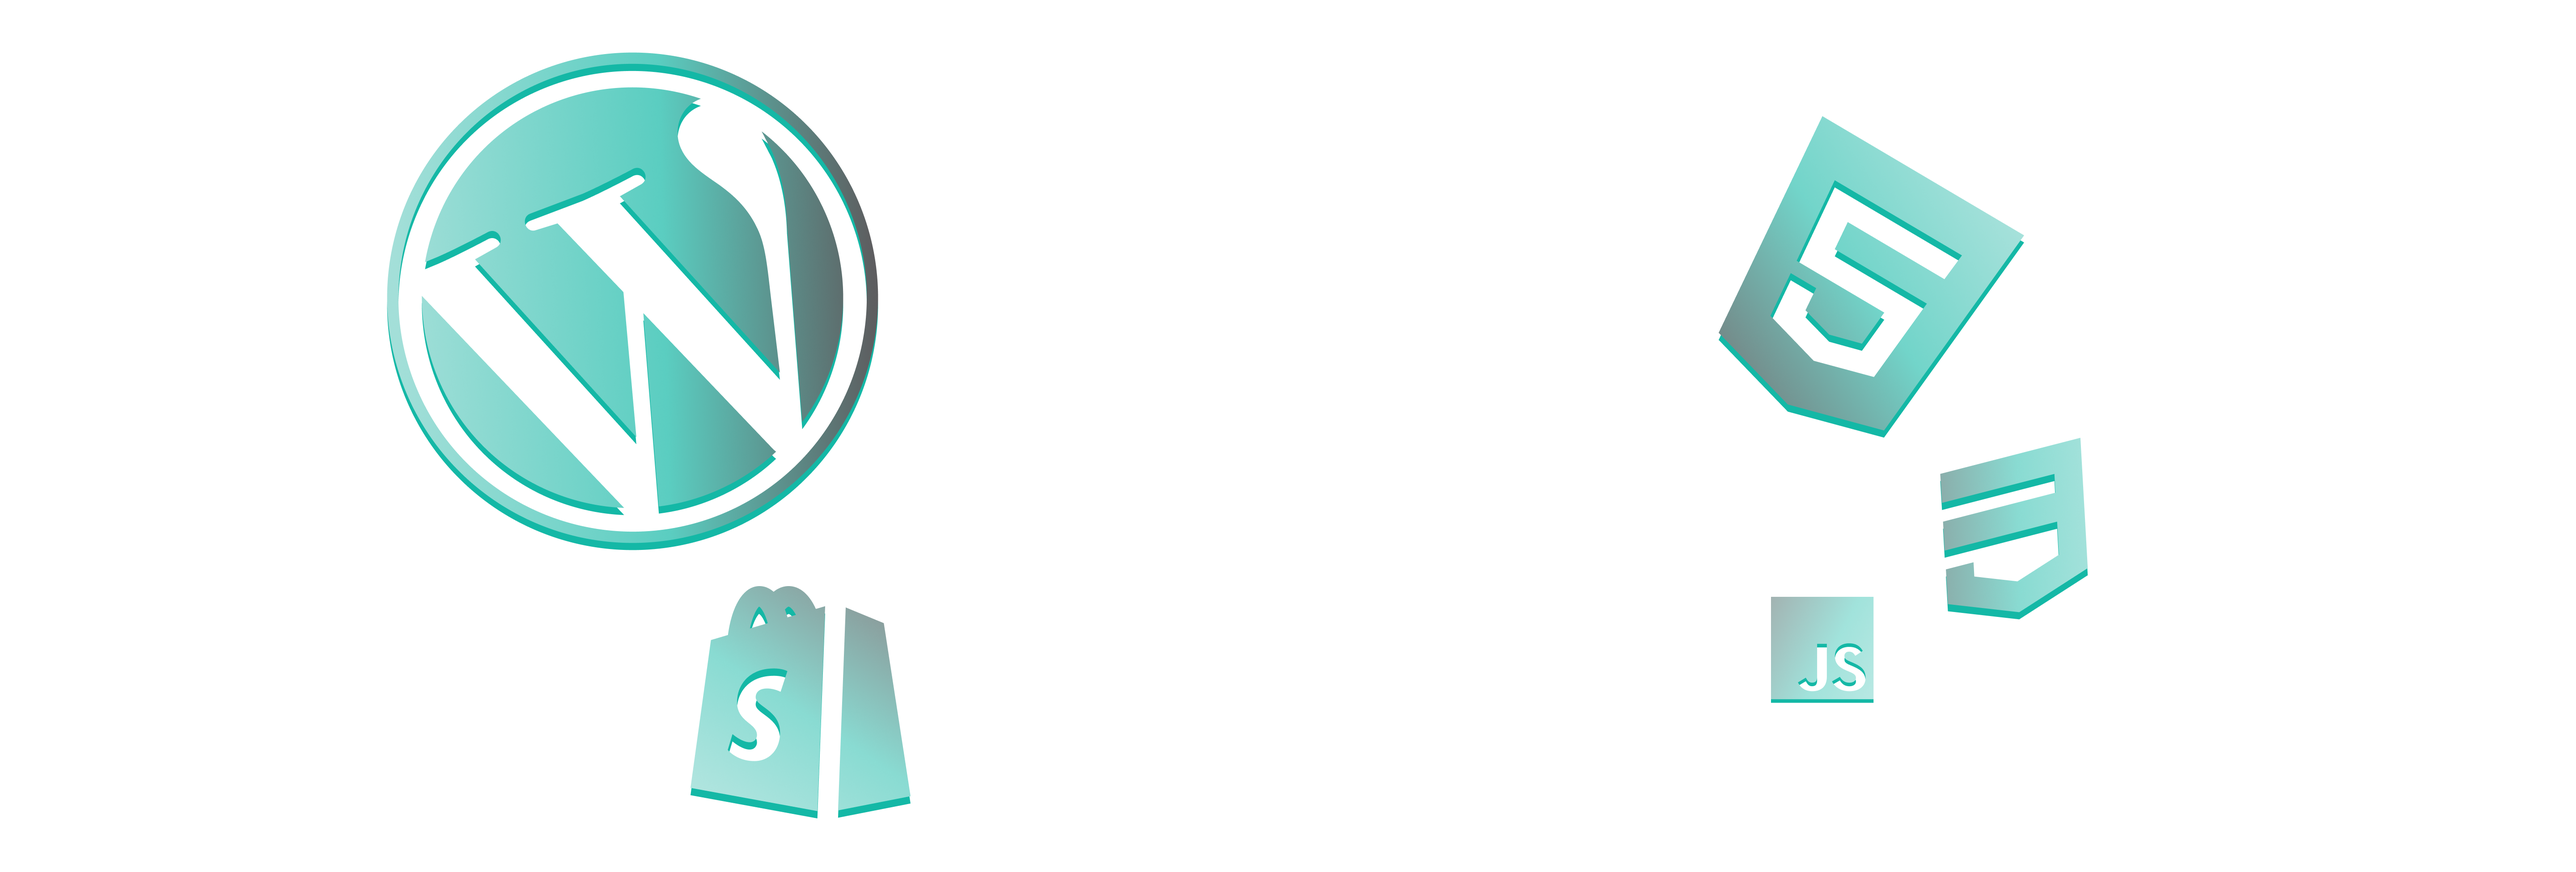
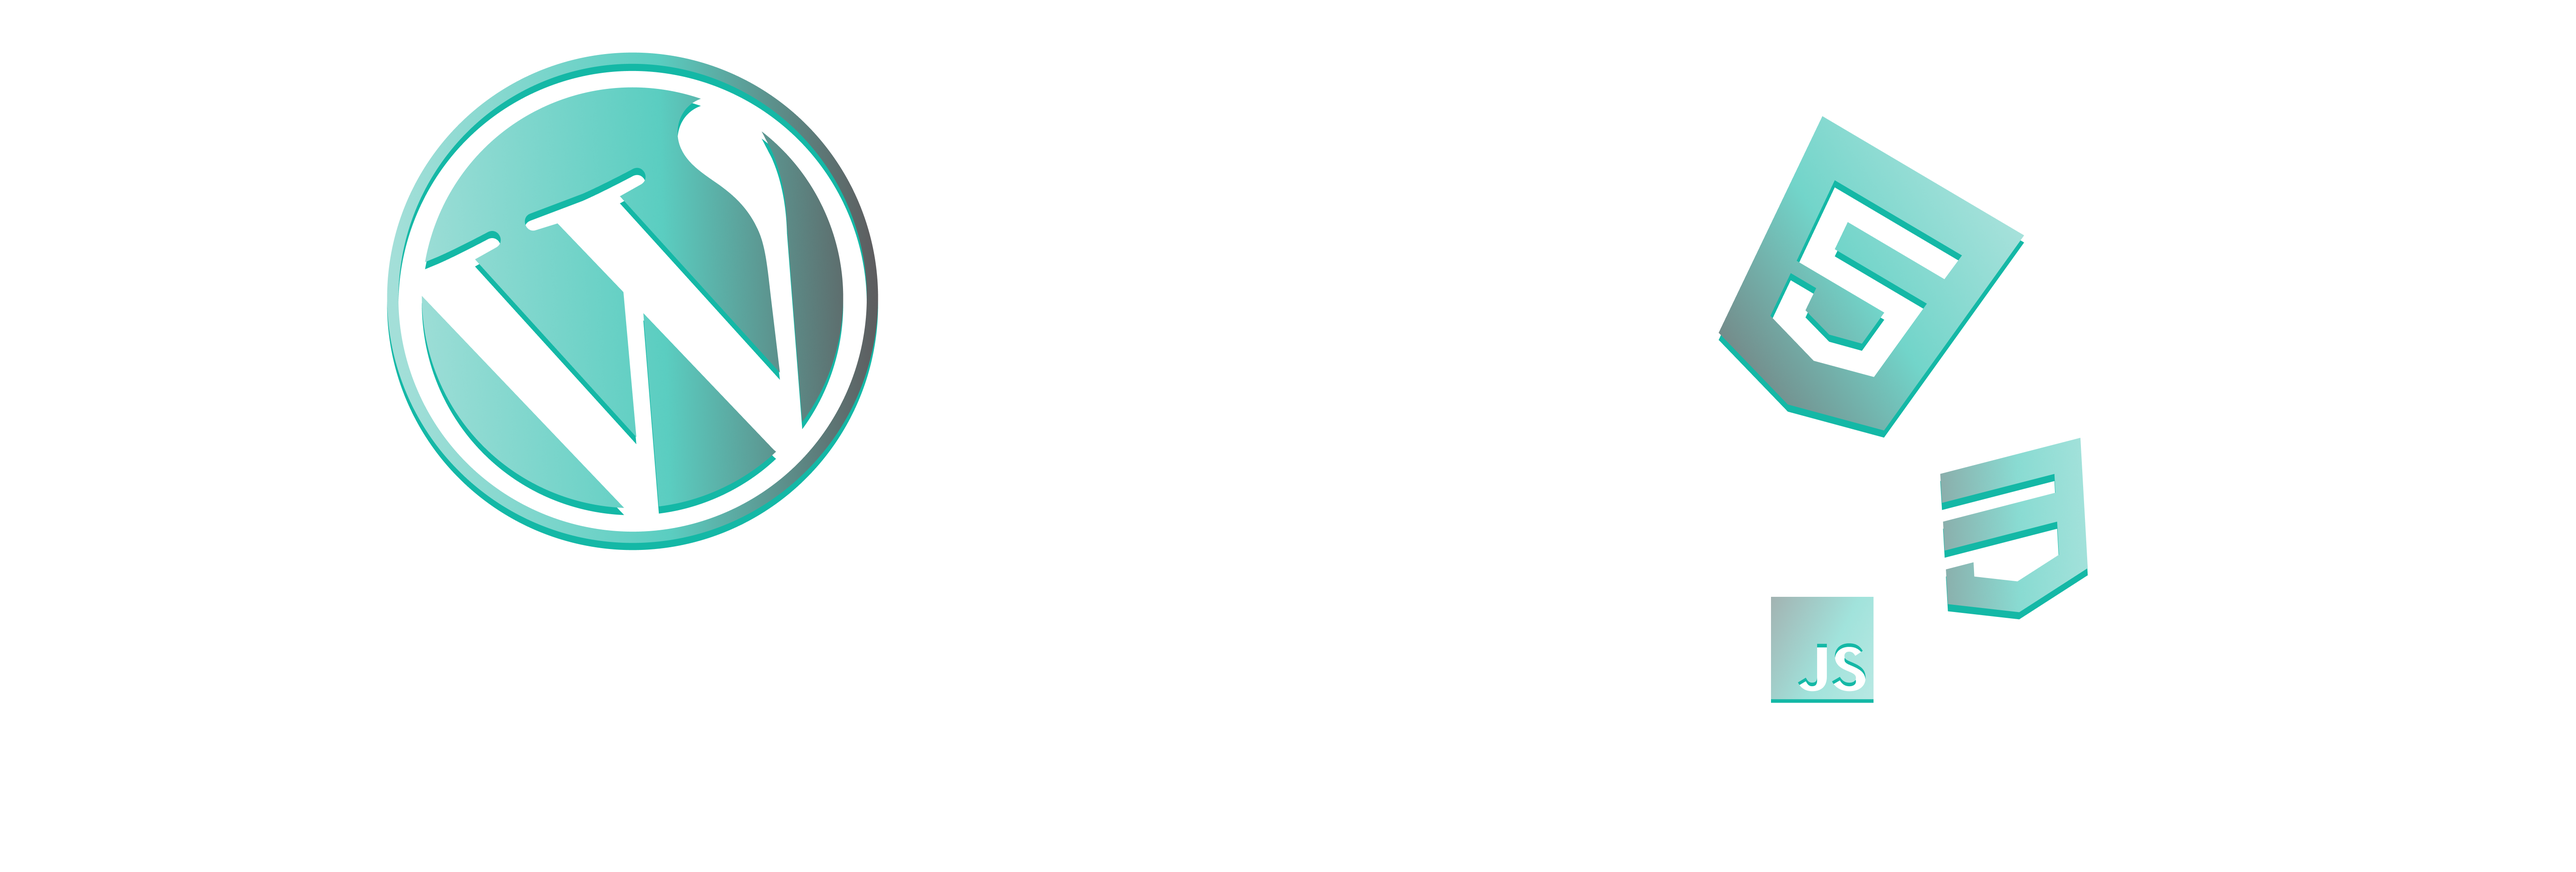
Add files via upload

Changed region(s): [[0.25, 0.6562, 0.375, 0.9375]]

diff --git a/index.html b/index.html
@@ -57,7 +57,7 @@
                 </div>
                 <p id="subtitle" class="text-neutral-100 text-center text-xl font-light opacity-80">Website developer
                 </p>
-                <p class="text-neutral-100 text-center text-xl font-light opacity-80">WordPress, Shopify, HTML, CSS, JS
+                <p class="text-neutral-100 text-center text-xl font-light opacity-80">WordPress, HTML, CSS, JS
                     🚀
                 </p>
             </div>
@@ -141,19 +141,80 @@
 
         <div class="flex flex-col lg:flex-row justify-center items-center">
             <div class="w-full lg:w-[35%] flex flex-col justify-center items-center drop-shadow-main ">
-                <a href="https://slamculture.com/" target="_blank">
-                    <img src="./img/slamculture_logo.png">
+                <a href="https://gpasolutions.co.uk/" target="_blank">
+                    <img src="./img/gpasolutions_logo.png">
                 </a>
-                <p id="slamculture_description" class="text-neutral-100 text-xl font-light opacity-80">Clothing brand
-                    e-shop 👕</p>
+                <p id="gpasolutions_description" class="text-neutral-100 text-xl font-light opacity-80">Gardening
+                    company website 🌱</p>
             </div>
             <div class="w-full lg:w-[35%] flex flex-col justify-center lg:justify-end items-center lg:items-end">
-                <a href="https://slamculture.com/" target="_blank">
-                    <img src="./img/slamculture.png" class="w-full floating-img">
+                <a href="https://gpasolutions.co.uk/" target="_blank">
+                    <img src="./img/gpasolutions.png" class="w-full floating-img">
                 </a>
                 <div class="flex justify-center items-center mr-0 lg:mr-18">
-                    <p class="built_in text-neutral-100 opacity-80 mr-3 mt-[3px]">Built in</p>
-                    <img src="./img/shopify.png">
+                    <p class="built_in text-neutral-100 opacity-80 mr-[-5px] mt-[3px]">Built in</p>
+                    <img src="./img/wordpress.png">
+                </div>
+            </div>
+        </div>
+
+        <div class="flex lg:hidden justify-end items-center">
+            <div class="w-[50%]">
+                <img class="h-48 mt-10" src="img/line_0.png">
+            </div>
+        </div>
+        <div class="hidden lg:flex justify-center items-center">
+            <div>
+                <img class="h-96" src="img/line_2.png">
+            </div>
+        </div>
+
+        <div class="flex flex-col lg:flex-row-reverse justify-center items-center">
+            <div class="w-full lg:w-[35%] flex flex-col justify-center items-center drop-shadow-main ">
+                <a href="https://odborysno.cz/" target="_blank">
+                    <img src="./img/odborysno_logo.png">
+                </a>
+                <p id="odborysno_description" class="text-neutral-100 text-xl font-light opacity-80">Hospital
+                    department
+                    website 🏥</p>
+            </div>
+            <div class="w-full lg:w-[35%] flex flex-col justify-center lg:justify-start items-center lg:items-start">
+                <a href="https://odborysno.cz/" target="_blank">
+                    <img src="./img/odborysno.png" class="w-full floating-img">
+                </a>
+                <div class="flex justify-center items-center ml-0 lg:ml-18">
+                    <p class="built_in text-neutral-100 opacity-80 mr-[-5px] mt-[3px]">Built in</p>
+                    <img src="./img/wordpress.png">
+                </div>
+            </div>
+        </div>
+
+        <div class="flex lg:hidden justify-end items-center">
+            <div class="w-[50%]">
+                <img class="h-48 mt-10" src="img/line_0.png">
+            </div>
+        </div>
+        <div class="hidden lg:flex justify-center items-center">
+            <div>
+                <img class="h-96" src="img/line_3.png">
+            </div>
+        </div>
+
+        <div class="flex flex-col lg:flex-row justify-center items-center">
+            <div class="w-full lg:w-[35%] flex flex-col justify-center items-center drop-shadow-main ">
+                <a href="https://www.hayleyjoneswiresculptures.com/" target="_blank">
+                    <img src="./img/hayleyjones_logo.png">
+                </a>
+                <p id="hayleyjones_description" class="text-neutral-100 text-xl font-light opacity-80">Artist portfolio
+                    website 🎨</p>
+            </div>
+            <div class="w-full lg:w-[35%] flex flex-col justify-center lg:justify-end items-center lg:items-end">
+                <a href="https://www.hayleyjoneswiresculptures.com/" target="_blank">
+                    <img src="./img/hayleyjones.png" class="w-full floating-img">
+                </a>
+                <div class="flex justify-center items-center mr-0 lg:mr-18">
+                    <p class="built_in text-neutral-100 opacity-80 mr-[-5px] mt-[3px]">Built in</p>
+                    <img src="./img/wordpress.png">
                 </div>
             </div>
         </div>
@@ -278,10 +339,13 @@
                 projects_title: "Projects",
                 rqpower_description: "Photovoltaic company website 🔋",
                 tevalipno_description: "Accomodation booking website 🏠",
-                slamculture_description: "Clothing brand e-shop 👕",
+                gpasolutions_description: "Gardening company website 🌱",
+                odborysno_description: "Hospital department website 🏥",
+                hayleyjones_description: "Artist portfolio website 🎨",
                 contact_title: "Contact",
                 contact_description: "Interested in working with me? Feel free to reach out 📝",
-                btn: "Send"
+                btn: "Send",
+                thankYouMessage: "✅ Thanks for your message! I'll get back to you soon."
             },
             cz: {
                 rightsReserved: "Všechna práva vyhrazena",
@@ -294,12 +358,15 @@
                 link_contact: "Kontakt",
                 subtitle: "Webový vývojář",
                 projects_title: "Projekty",
-                rqpower_description: "Web pro firmu zabývající se fotovoltaikou 🔋",
-                tevalipno_description: "Web s rezervací ubytování 🏠",
-                slamculture_description: "E-shop pro módní značku 👕",
+                rqpower_description: "Web fotovoltaické společnosti 🔋",
+                tevalipno_description: "Web rezervace ubytování 🏠",
+                gpasolutions_description: "Web zahradnické firmy 🌱",
+                odborysno_description: "Web nemocničního oddělení 🏥",
+                hayleyjones_description: "Web portfolia umělce 🎨",
                 contact_title: "Kontakt",
                 contact_description: "Máte zájem o spolupráci? Neváhejte mě kontaktovat 📝",
-                btn: "Odeslat"
+                btn: "Odeslat",
+                thankYouMessage: "✅ Děkuji za Vaši zprávu! Brzy se Vám ozvu."
             }
         };
 
@@ -317,7 +384,9 @@
             document.getElementById("projects_title").textContent = translations[lang].projects_title;
             document.getElementById("rqpower_description").textContent = translations[lang].rqpower_description;
             document.getElementById("tevalipno_description").textContent = translations[lang].tevalipno_description;
-            document.getElementById("slamculture_description").textContent = translations[lang].slamculture_description;
+            document.getElementById("gpasolutions_description").textContent = translations[lang].gpasolutions_description;
+            document.getElementById("odborysno_description").textContent = translations[lang].odborysno_description;
+            document.getElementById("hayleyjones_description").textContent = translations[lang].hayleyjones_description;
             document.getElementById("contact_title").textContent = translations[lang].contact_title;
             document.getElementById("contact_description").textContent = translations[lang].contact_description;
             document.getElementById("btn").textContent = translations[lang].btn;
@@ -326,6 +395,7 @@
             document.getElementById("email").placeholder = translations[lang].emailPlaceholder;
             document.getElementById("message").placeholder = translations[lang].messagePlaceholder;
             document.getElementById("rights-reserved").textContent = translations[lang].rightsReserved;
+            document.getElementById("thankYouMessage").textContent = translations[lang].thankYouMessage;
         }
 
         const savedLang = localStorage.getItem("selectedLanguage") || "en";

diff --git a/style.css b/style.css
@@ -731,9 +731,6 @@
   .mr-0 {
     margin-right: calc(var(--spacing) * 0);
   }
-  .mr-3 {
-    margin-right: calc(var(--spacing) * 3);
-  }
   .mr-\[-5px\] {
     margin-right: -5px;
   }
@@ -860,9 +857,6 @@
   .min-h-screen {
     min-height: 100vh;
   }
-  .w-1 {
-    width: calc(var(--spacing) * 1);
-  }
   .w-1\/2 {
     width: calc(1/2 * 100%);
   }
@@ -973,14 +967,6 @@
   .translate-full {
     --tw-translate-x: 100%;
     --tw-translate-y: 100%;
-    translate: var(--tw-translate-x) var(--tw-translate-y);
-  }
-  .translate-y-0 {
-    --tw-translate-y: calc(var(--spacing) * 0);
-    translate: var(--tw-translate-x) var(--tw-translate-y);
-  }
-  .translate-y-10 {
-    --tw-translate-y: calc(var(--spacing) * 10);
     translate: var(--tw-translate-x) var(--tw-translate-y);
   }
   .-translate-z-px {
@@ -2076,14 +2062,8 @@
   .scheme-only-light {
     color-scheme: only light;
   }
-  .opacity-0 {
-    opacity: 0%;
-  }
   .opacity-80 {
     opacity: 80%;
-  }
-  .opacity-100 {
-    opacity: 100%;
   }
   .mix-blend-plus-darker {
     mix-blend-mode: plus-darker;
@@ -2230,10 +2210,6 @@
   .duration-400 {
     --tw-duration: 400ms;
     transition-duration: 400ms;
-  }
-  .duration-500 {
-    --tw-duration: 500ms;
-    transition-duration: 500ms;
   }
   .ease-in {
     --tw-ease: var(--ease-in);
